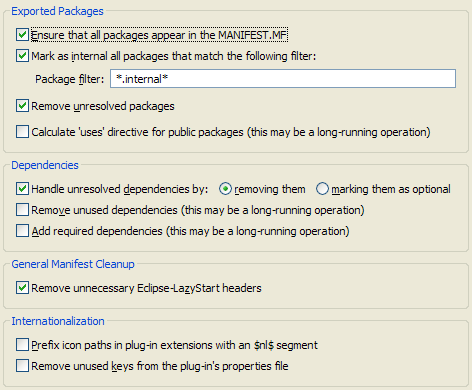
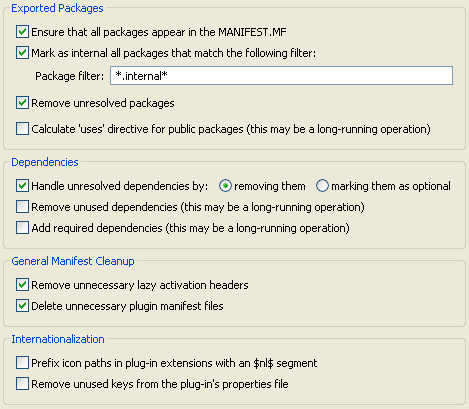
updating documentation about the organize manifests wizard

diff --git a/bundles/org.eclipse.pde.doc.user/guide/tools/pde_actions/organize_manifests.htm b/bundles/org.eclipse.pde.doc.user/guide/tools/pde_actions/organize_manifests.htm
@@ -98,10 +98,15 @@
 
 <p class="style3">Miscellaneous Options</p>
 
-<p>The <strong>Remove unnecessary Eclipse-LazyStart headers</strong> option will
- remove the Eclipse-LazyStart header if a Bundle-Activator is not defined. 
- If a bundle has nothing to contribute when it is started, the Eclipse-LazyStart
+<p>The <strong>Remove unnecessary lazy activation headers</strong> option will
+ remove lazy activation headers if a Bundle-Activator is not defined. 
+ If a bundle has nothing to contribute when it is started, a lazy activation
  header is not necessary.
+</p>
+
+<p>The <strong>Delete unnecessary plug-in manifest files</strong> option will
+ remove plugin.xml files if a plug-in doesn't contribute any extension or 
+ extension points.
 </p>
 
 <p>&nbsp;</p>
